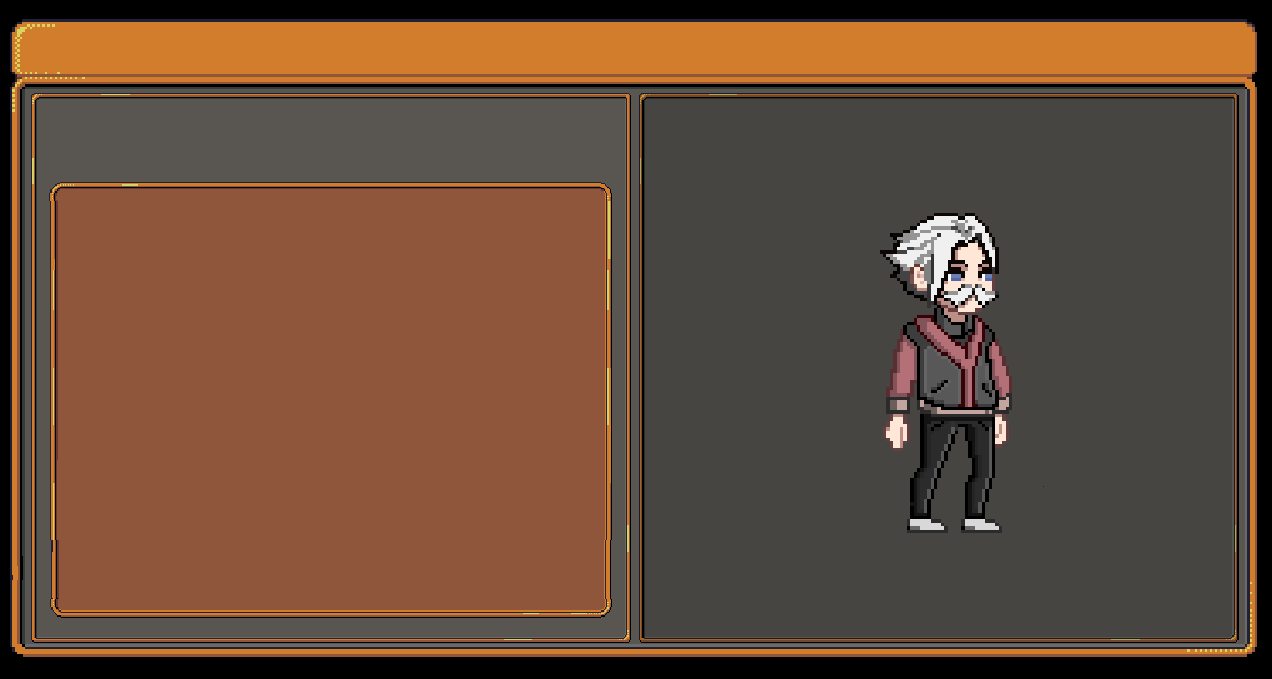
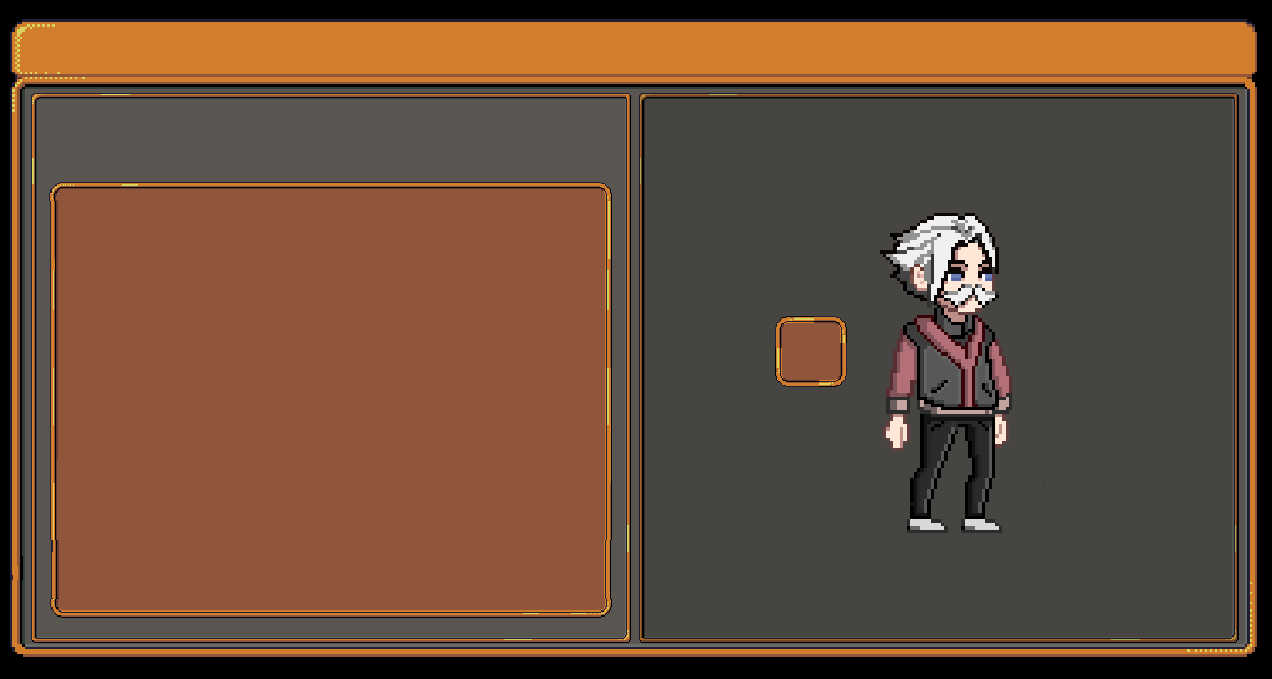
ItemFocus reaction

Changed region(s): [[0.5825, 0.4639, 0.6745, 0.5876]]

diff --git a/GameCore/Textures.cpp b/GameCore/Textures.cpp
@@ -9,6 +9,7 @@ int Textures::ANIMATED_BLOCK_TEXTURE = -1;
 int Textures::TEST_BACKGROUND = -1;
 int Textures::GRASS_BLOCK_TEXTURE = -1;
 int Textures::MAIN_MENU_PLAY_BUTTON = -1;
+int Textures::MAIN_MENU_PLAY_BUTTON_FOCUS = -1;
 int Textures::MAIN_MENU_QUIT_BUTTON = -1;
 int Textures::MAIN_MENU_OPTIONS_BUTTON = -1;
 int Textures::MAIN_OPTIONS_MENU_BACK_BUTTON = -1;
@@ -23,6 +24,7 @@ int Textures::WHITE_BLOCK = -1;
 int Textures::RESOLUTION_BUTTON = -1;
 int Textures::LANTERN = -1;
 int Textures::SWORD = -1;
+int Textures::ITEM_FOCUS = -1;
 
 void Textures::LOAD_ALL_TEXTURES() {
 	GraphicManager::SetSpritesMaxCount(200);
@@ -38,15 +40,21 @@ void Textures::LOAD_ALL_TEXTURES() {
 	Textures::PLAYER_STAND_TEXTURE = GraphicManager::LoadSprite(GraphicPrefabData("./Resources/player.png", Vector2F(96, 96), 1));
 	Textures::TEST_BACKGROUND = GraphicManager::LoadSprite(GraphicPrefabData("./Resources/Background.png", Vector2F(1200, 659), 1));
 	Textures::GRASS_BLOCK_TEXTURE = GraphicManager::LoadSprite(GraphicPrefabData("./Resources/GrassBlock.png", Vector2F(16, 16), 1));
-	Textures::MAIN_MENU_PLAY_BUTTON = GraphicManager::LoadSprite(GraphicPrefabData("./Resources/play_button.png", Vector2F(410, 240), 1));
-	Textures::MAIN_MENU_QUIT_BUTTON = GraphicManager::LoadSprite(GraphicPrefabData("./Resources/quit_button.png", Vector2F(490, 190), 1));
-	Textures::RED_STAR = GraphicManager::LoadSprite(GraphicPrefabData("./Resources/RedStar.png", Vector2F(20, 19), 1));
+
 	Textures::MAIN_MENU_OPTIONS_BUTTON = GraphicManager::LoadSprite(GraphicPrefabData("./Resources/options_button.png", Vector2F(760, 230), 1));
 	Textures::MAIN_OPTIONS_MENU_BACK_BUTTON = GraphicManager::LoadSprite(GraphicPrefabData("./Resources/back_button.png", Vector2F(280, 280), 1));
+	Textures::MAIN_MENU_PLAY_BUTTON = GraphicManager::LoadSprite(GraphicPrefabData("./Resources/play_button.png", Vector2F(128, 32), 1));
+	Textures::MAIN_MENU_PLAY_BUTTON_FOCUS = GraphicManager::LoadSprite(GraphicPrefabData("./Resources/play_button_focus.png", Vector2F(128, 32), 1));
+	Textures::MAIN_MENU_QUIT_BUTTON = GraphicManager::LoadSprite(GraphicPrefabData("./Resources/quit_button.png", Vector2F(490, 190), 1));
+
+	Textures::RED_STAR = GraphicManager::LoadSprite(GraphicPrefabData("./Resources/RedStar.png", Vector2F(20, 19), 1));
+
 	Textures::SHREK = GraphicManager::LoadSprite(GraphicPrefabData("./Resources/shrek.png", Vector2F(750, 650), 1));
 	Textures::INVENTORY = GraphicManager::LoadSprite(GraphicPrefabData("./Resources/inventory.png", Vector2F(1272, 679), 1));
 	Textures::CONTROLS_BUTTON = GraphicManager::LoadSprite(GraphicPrefabData("./Resources/controls_button.png", Vector2F(76, 23), 1));
 	Textures::WHITE_BLOCK = GraphicManager::LoadSprite(GraphicPrefabData("./Resources/WhiteBlock.png", Vector2F(32, 32), 1));
 	Textures::RESOLUTION_BUTTON = GraphicManager::LoadSprite(GraphicPrefabData("./Resources/resolution_button.png", Vector2F(76, 23), 1));
 	Textures::SWORD = GraphicManager::LoadSprite(GraphicPrefabData("./Resources/sword.png", Vector2F(300, 320), 1));
+
+	Textures::ITEM_FOCUS = GraphicManager::LoadSprite(GraphicPrefabData("./Resources/item_focus.png", Vector2F(300, 320), 1));
 }

diff --git a/GameCore/Menu/Buttons/ItemButton.cpp b/GameCore/Menu/Buttons/ItemButton.cpp
@@ -1,40 +1,52 @@
 #include "ItemButton.h"
 
+#include "../../Scenes/InventoryScene.h"
+
 #include <cstdio>
 #include <iostream>
 
-ItemButton::ItemButton(Item* _item)
-{
+ItemButton::ItemButton(Item *_item) {
 	item = _item;
+	was_focused = false;
 }
 
-void ItemButton::clickReact()
-{
+void ItemButton::clickReact() {
 	// Nothing for now
 }
 
-void ItemButton::focusReact()
-{
-	// Nothing for now
+void ItemButton::focusReact() {
+	// Show that this item is focused - indicate this item for item_focus image widget
+	InventoryScene *_scene = dynamic_cast<InventoryScene*>(current_scene);
+	_scene->focused_item->focusItem(this->item);
+	was_focused = true;
+	// printf("FOCUS ITEMBUTTON! ADDRESS - %x\n", _scene);
 }
 
-void ItemButton::disfocusReact()
-{
-	// Nothing for now
+void ItemButton::disfocusReact() {
+	/*
+	 printf("=============\n");
+	 printf("DISFOCUSED ITEMBUTTON NOW!\n");
+	 printf("=============\n");
+	 */
+
+	// Disfocus (if have been focused)
+	InventoryScene *_scene = dynamic_cast<InventoryScene*>(this->current_scene);
+
+	if (was_focused) {
+		_scene->focused_item->disfocus();
+		was_focused = false;
+	}
 }
 
-void ItemButton::Destroy()
-{
+void ItemButton::Destroy() {
 	printf("ItemButton destroyed!\n");
 	std::cout.flush();
 }
 
-void ItemButton::Init(GameObject *owner)
-{
+void ItemButton::Init(GameObject *owner) {
 	printf("ItemButton created!\n");
 }
 
-ItemButton::~ItemButton()
-{
+ItemButton::~ItemButton() {
 	item = nullptr;
 }

diff --git a/GameCore/Scenes/InventoryScene.cpp b/GameCore/Scenes/InventoryScene.cpp
@@ -12,6 +12,7 @@
 
 #include "../Map.h"
 #include "../Menu/ImageWidgets/Background.h"
+#include "../Menu/ImageWidgets/ItemFocus.h"
 #include "../Menu/Buttons/ItemButton.h"
 #include "../Textures.h"
 
@@ -19,6 +20,7 @@ InventoryScene::InventoryScene(Map *_map) {
 	delay = 0;
 	gamefield = _map;
 	inventory = gamefield->getInventory();
+	focused_item = nullptr;
 }
 
 // Constant vectors for item buttons
@@ -53,6 +55,7 @@ void InventoryScene::Init() {
 		_button->SetPos(
 				{ itemStartPos.x + column * itemIconSize.x, itemStartPos.y
 						- row * itemIconSize.y });
+		item->SetPos(_button->GetPos());
 		_button->SetSize(itemIconSize);
 		_button->SetGap( { 0, 0 });
 		widgets->push_back(_button);
@@ -69,6 +72,16 @@ void InventoryScene::Init() {
 			break;
 		}
 	}
+
+	// Create focus item image widget
+	ItemFocus* item_focus = new ItemFocus();
+	item_focus->Init(nullptr);
+	item_focus->setScene(this);
+	item_focus->setSpriteID(Textures::ITEM_FOCUS);
+	item_focus->SetPos({0, 0});
+	item_focus->SetSize(itemIconSize);
+	this->focused_item = item_focus;
+	widgets->push_back(item_focus);
 
 	printf("InventoryScene created!\n");
 }
@@ -96,4 +109,9 @@ void InventoryScene::Destroy() {
 
 	printf("InventoryScene destroyed!\n");
 	std::cout.flush();
+}
+
+void InventoryScene::setItemFocus(ItemFocus *_item)
+{
+	focused_item = _item;
 }

diff --git a/GameCore/Menu/ImageWidgets/ItemFocus.cpp b/GameCore/Menu/ImageWidgets/ItemFocus.cpp
@@ -1,0 +1,52 @@
+#include "ItemFocus.h"
+
+#include <cstdio>
+#include <iostream>
+
+#include "../../../Engine/Graphics/DrawData.h"
+#include "../../../Engine/Graphics/GraphicManager.h"
+
+#include "../../items/Item.h"
+
+void ItemFocus::Init(GameObject *owner) {
+	printf("ItemFocus created!\n");
+}
+
+void ItemFocus::Update() {
+	// Nothing for now
+}
+
+void ItemFocus::Draw() {
+	if (focused_item != nullptr) {
+		DrawData info = { };
+
+		info.position = focused_item->GetPos();
+
+		info.size = _size;
+
+		info.origin = { 0.5, 0.5 };
+
+		info.frame = 0;
+		info.layer = 2;
+
+		info.spriteID = this->sprite_id;
+		GraphicManager::Draw(info, Views::MAIN_MENU);
+	}
+}
+
+ItemFocus::ItemFocus() {
+	focused_item = nullptr;
+}
+
+void ItemFocus::Destroy() {
+	printf("ItemFocus destroyed!\n");
+	std::cout.flush();
+}
+
+void ItemFocus::focusItem(Item *_item) {
+	focused_item = _item;
+}
+
+void ItemFocus::disfocus() {
+	focused_item = nullptr;
+}

diff --git a/GameCore/Scenes/InventoryScene.h b/GameCore/Scenes/InventoryScene.h
@@ -1,11 +1,17 @@
-#include "MenuScene.h"
-#include "GameplayScene.h"
+#pragma once
 
-#include "../player/Inventory.h"
+#include "MenuScene.h"
+
+#include "../Map.h"
+#include "../Menu/ImageWidgets/ItemFocus.h"
 
 class InventoryScene: public MenuScene {
+	// Current map
 	Map *gamefield;
+	// Inventory of the main character
 	Inventory* inventory;
+	// The widget that appears when some item is focused
+	ItemFocus* focused_item;
 public:
 	InventoryScene(Map *_map);
 
@@ -13,6 +19,11 @@ public:
 	void Update() override;
 	void Destroy() override;
 
+	// Set this widget
+	void setItemFocus(ItemFocus* _item);
+
 	// Delay before inventory can be closed
 	unsigned delay;
+
+	friend class ItemButton;
 };

diff --git a/GameCore/Textures.h b/GameCore/Textures.h
@@ -27,6 +27,7 @@ public:
 
 	// TEST BUTTON
 	static int MAIN_MENU_PLAY_BUTTON;
+	static int MAIN_MENU_PLAY_BUTTON_FOCUS;
 	static int MAIN_MENU_QUIT_BUTTON;
 	static int MAIN_MENU_OPTIONS_BUTTON;
 
@@ -37,6 +38,8 @@ public:
 
 	static int INVENTORY;
 	static int SWORD;
+
+	static int ITEM_FOCUS;
 
 	//! Texture loader. LOAD EVERY TEXTURE HERE!!! BUT FIRST DEFINE IT IN THIS CLASS!!!
 	static void LOAD_ALL_TEXTURES();

diff --git a/GameCore/Scenes/MainMenuScene.cpp b/GameCore/Scenes/MainMenuScene.cpp
@@ -38,8 +38,8 @@ void MainMenuScene::Init() {
 	play_button->setScene(this);
 	play_button->setSpriteID(Textures::MAIN_MENU_PLAY_BUTTON);
 	play_button->SetPos( { 800, 600 });
-	play_button->SetSize( { 410, 240 });
-	play_button->SetGap( { 45, 55 });
+	play_button->SetSize( { 512, 128 });
+	play_button->SetGap( { 0, 0 });
 	widgets->push_back(play_button);
 
 	//! Initializing the button that exits

diff --git a/GameCore/Menu/ImageWidgets/ItemFocus.h b/GameCore/Menu/ImageWidgets/ItemFocus.h
@@ -1,0 +1,19 @@
+#pragma once
+
+#include "ImageWidget.h"
+#include "../../items/Item.h"
+
+class ItemFocus: public ImageWidget {
+	// Put an item there to indicate it is focused
+	Item *focused_item;
+public:
+	ItemFocus();
+
+	void Init(GameObject *owner) override;
+	void Update() override;
+	void Draw() override;
+	void Destroy() override;
+
+	void focusItem(Item *_item);
+	void disfocus();
+};

diff --git a/GameCore/Menu/Buttons/ItemButton.h b/GameCore/Menu/Buttons/ItemButton.h
@@ -1,8 +1,11 @@
+#pragma once
+
 #include "Button.h"
 
 #include "../../items/Item.h"
 
 class ItemButton: public Button {
+	// Button's item
 	Item* item;
 public:
 	ItemButton(Item* _item);
@@ -14,4 +17,7 @@ public:
 	void Init(GameObject *owner) override;
 
 	~ItemButton();
+
+	// Shows if this button has been focused before (for inventory item_focus)
+	bool was_focused;
 };

diff --git a/GameCore/player/Player.cpp b/GameCore/player/Player.cpp
@@ -111,7 +111,7 @@ void Player::Init(GameObject *owner) {
 	inventory->Init();
 
 	// TEST ITEMS
-	for (int i = 0; i < 100; i++) {
+	for (int i = 0; i < 4; i++) {
 		Sword *sword = new Sword();
 		sword->Init(nullptr);
 		inventory->addItem(sword);

diff --git a/GameCore/Menu/Buttons/PlayButton.cpp b/GameCore/Menu/Buttons/PlayButton.cpp
@@ -16,7 +16,7 @@ void PlayButton::clickReact()
 
 void PlayButton::focusReact()
 {
-	sprite_id = Textures::SHREK;
+	sprite_id = Textures::MAIN_MENU_PLAY_BUTTON_FOCUS;
 }
 
 void PlayButton::Init(GameObject* owner)

diff --git a/GameCore/Menu/ImageWidgets/ImageWidget.h b/GameCore/Menu/ImageWidgets/ImageWidget.h
@@ -1,4 +1,7 @@
+#pragma once
+
 #include "../MenuWidget.h"
+#include "../../../Engine/Gameplay/GameObject.h"
 
 class ImageWidget : public MenuWidget
 {
